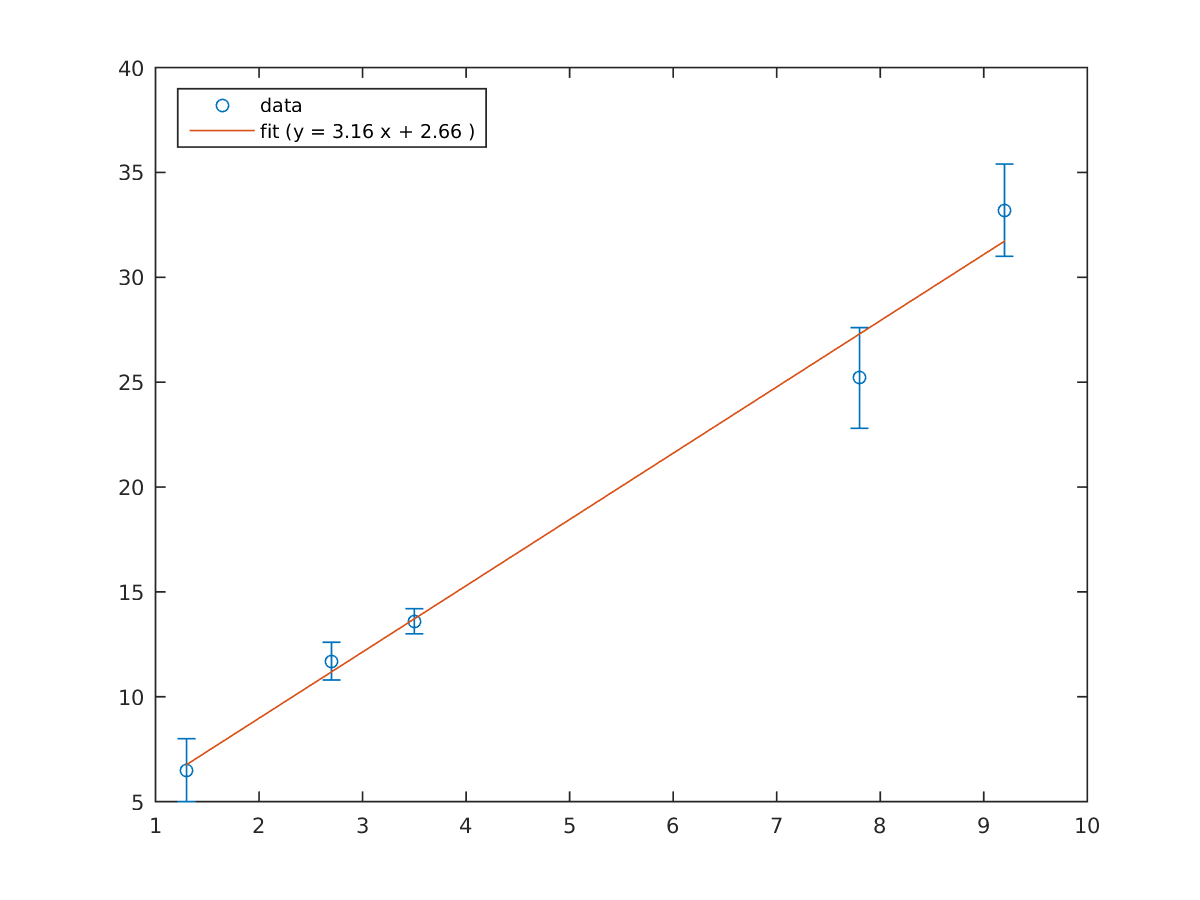
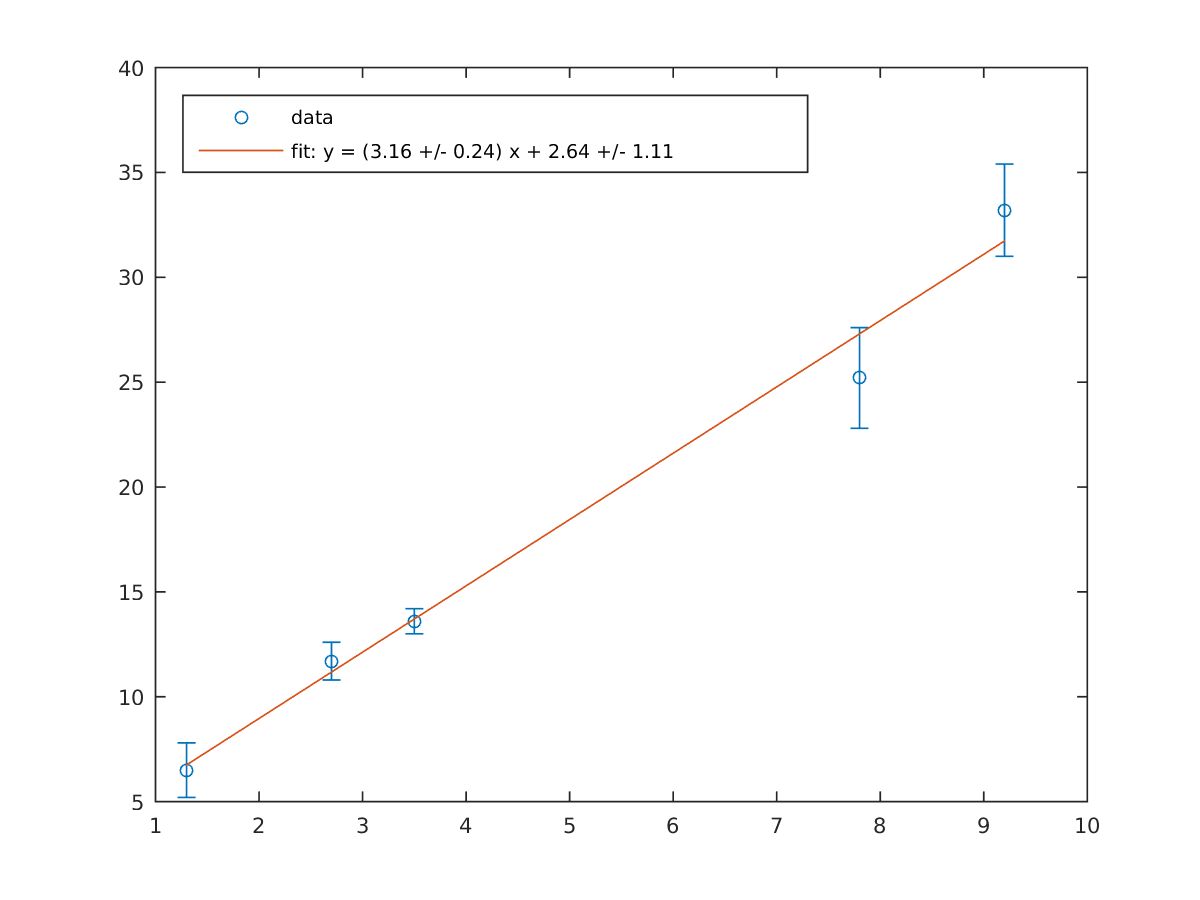
Analysera std dev i WLS exemplet.

Changed region(s): [[0.1233, 0.0933, 0.6783, 0.2178], [0.1542, 0.8089, 0.185, 0.84]]

diff --git a/input/matlab/wls.m b/input/matlab/wls.m
@@ -4,9 +4,9 @@
 
 x = [1.3 2.7 3.5 7.8 9.2];
 y = [6.5 11.7 13.6 25.2 33.2];
-dy = [1.5 0.9 0.6 2.4 2.2];
+dy = [1.3 0.9 0.6 2.4 2.2];
 
-% Vi kan plotta punkterna med osäkerhteen utritad
+% Vi kan plotta punkterna med osäkerheten utritad
 errorbar(x, y, dy, 'o')
 
 % Nu genomför vi en s.k. "viktad" minsta kvadrat anpassning:
@@ -14,12 +14,16 @@ errorbar(x, y, dy, 'o')
 f = fittype('poly1');  % Linjär ekvation (2 parametrar)
 options = fitoptions('poly1');
 options.Weights = 1./dy;
-fun = fit(x', y', f, options);
-k=fun.p1
-m=fun.p2
+fitobj = fit(x', y', f, options);
+k = fitobj.p1
+m = fitobj.p2
+% Standard avvikelsen för resp. parameter fås genom:
+std_dev = diff(confint(fitobj, 0.6827))/2;
+dk = std_dev(1)
+dm = std_dev(2)
 
 hold on;
 handle = plot([x(1) x(end)], m + k*[x(1) x(end)]);
-lbl = sprintf('fit (y = %.2f x + %.2f )', k, m);
+lbl = sprintf('fit: y = (%.2f +/- %.2f) x + %.2f +/- %.2f', k, dk, m, dm);
 legend('data', lbl, 'Location', 'NorthWest')
 saveas(handle, 'wls_fit.png', 'png')

diff --git a/input/txt/B20_matlab_wls.tex b/input/txt/B20_matlab_wls.tex
@@ -11,15 +11,27 @@ uppskattad osäkerhet för varje spearat punkt.
 
 k =
 
-    3.1592
+    3.1619
 
 
 m =
 
-    2.6573
+    2.6406
+
+
+dk =
+
+    0.2415
+
+
+dm =
+
+    1.1118
 \end{terminaloutput}
 
-\cref{fig:matlab-wls} visar den genererade plotten.
+Notera att vi även tog fram nya felgränser (en standardavvikelse vilket
+motsvarar ett 68.27\% konfidensintervall) på våra två
+parametrar. \cref{fig:matlab-wls} visar den genererade plotten.
 
 \begin{figure}
   \centering
